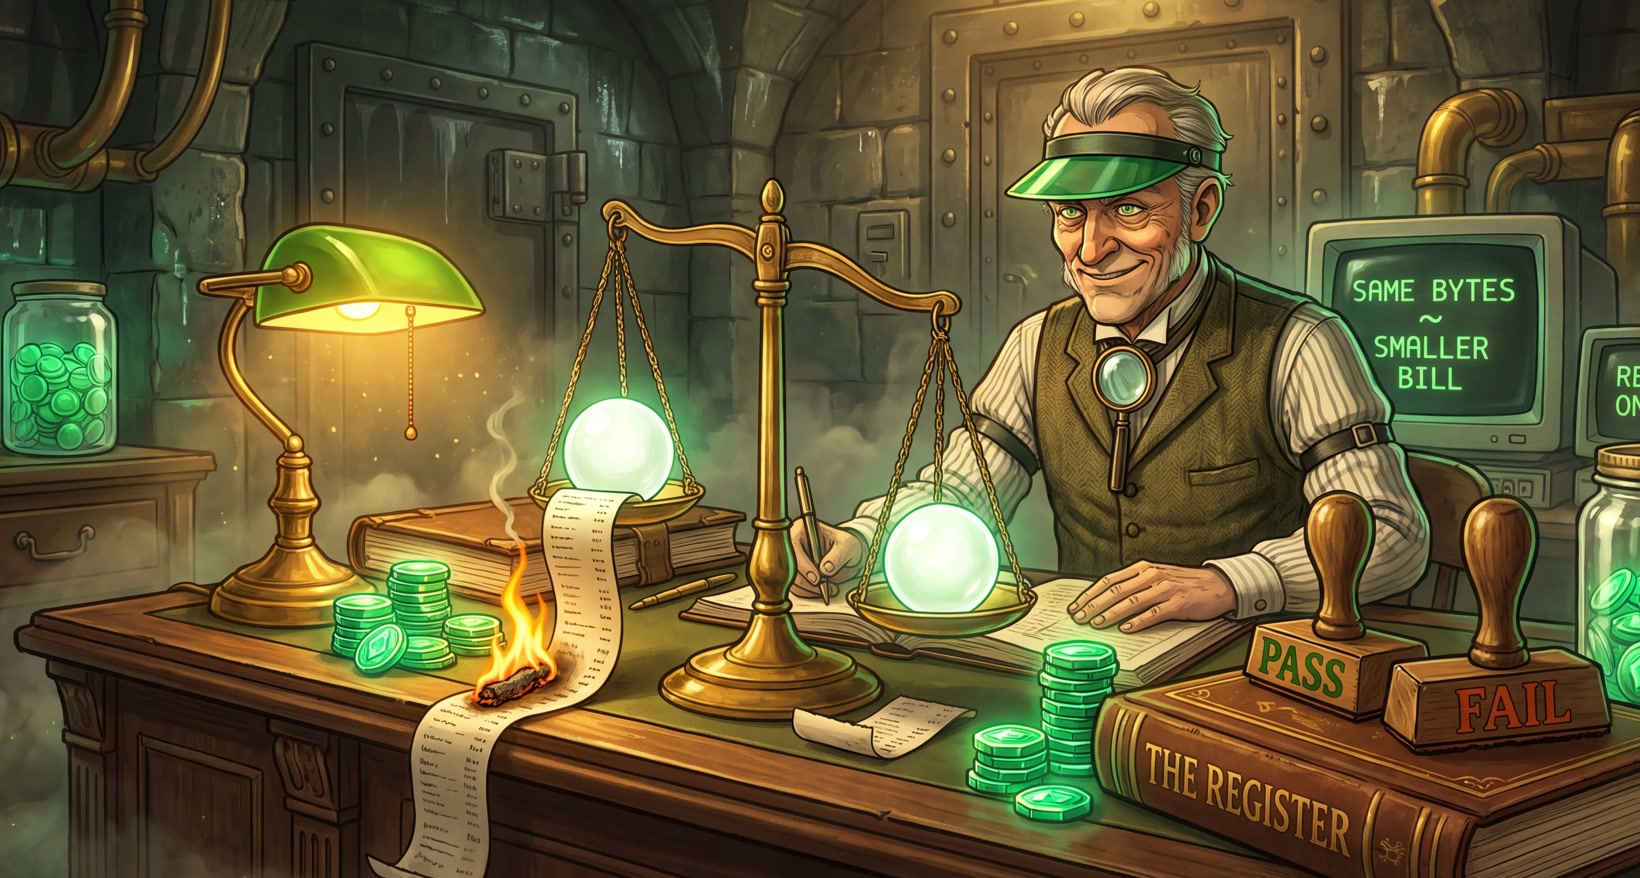
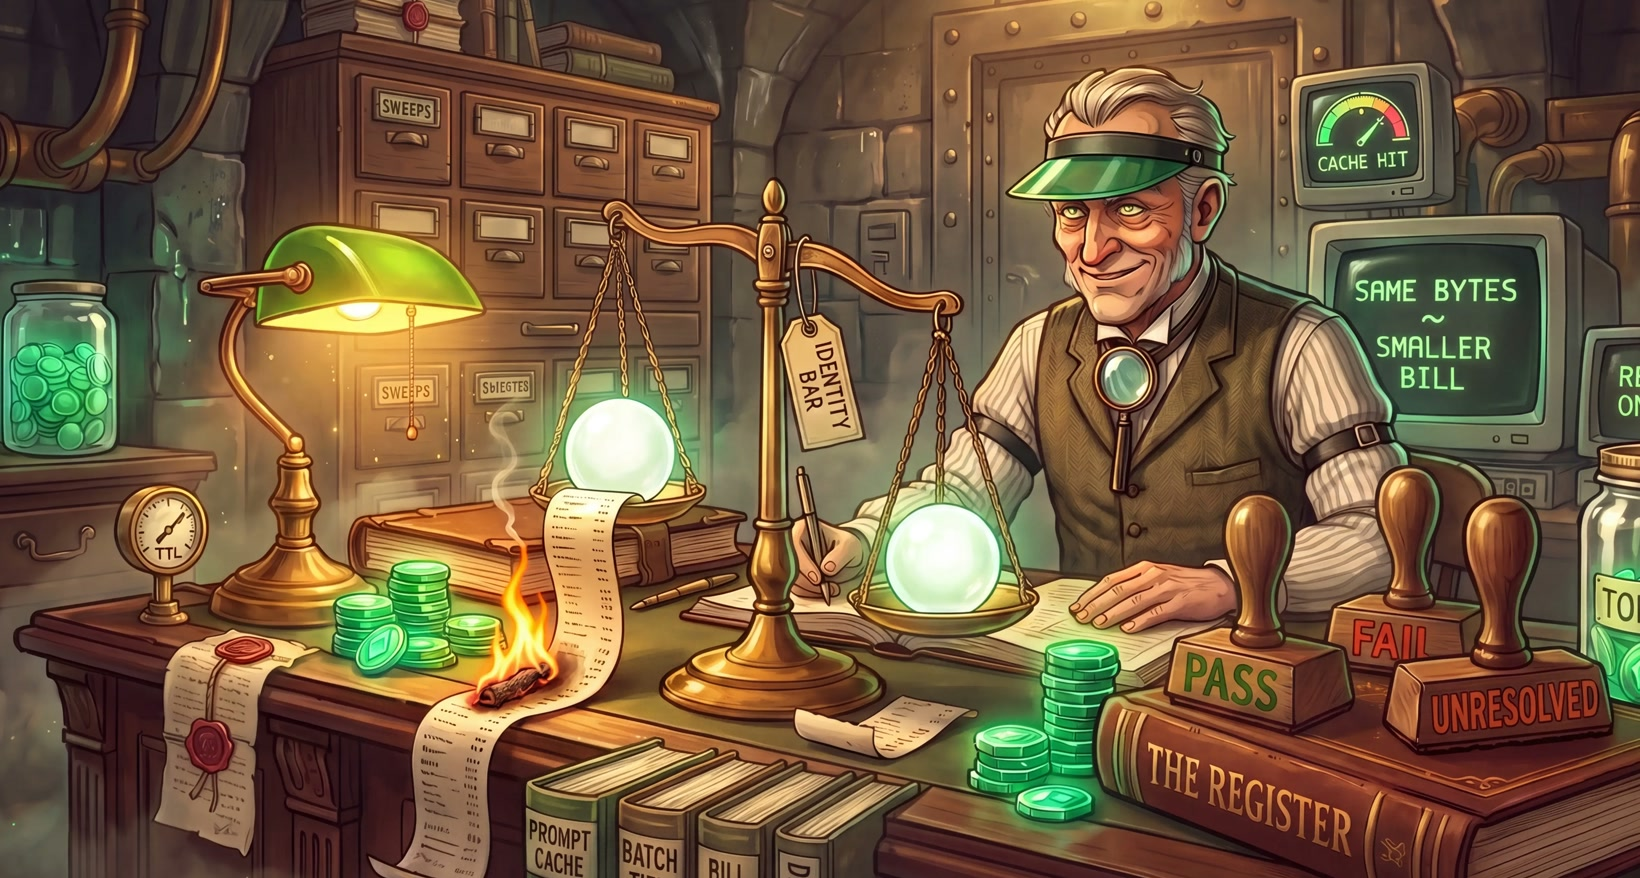
readme: the Auditor learns the whole product, and becomes canon
The integrated scene: every surface of the project is now a prop on
his desk — the IDENTITY BAR tag on the scale, PASS, FAIL and
UNRESOLVED stamps, the SWEEPS card-catalog, four skill ledgers, a TTL
gauge, a CACHE HIT meter, the TOKENS jar. Built by an image-reference
chain off the first take so he stays himself; the fix pass restored
the missing FAIL stamp and cleaned a gibberish drawer. The clean first
take lands as docs/img/auditor-master.jpg — the reference every future
render of him must be built from. Word-labels only; numerals stay
computed.

Claude-Session: https://claude.ai/code/session_014stxj5L3C1vmDXeRz55kxN

diff --git a/README.md b/README.md
@@ -11,7 +11,7 @@
 
 <div align="center">
 
-<img src="docs/img/hero-illustration.jpg" alt="The Auditor: a green-visored adjudicator at a vault desk weighing two identical glowing requests on a brass scale while a paper bill burns down to a stub — PASS and FAIL stamps ready beside a ledger embossed THE REGISTER" width="820">
+<img src="docs/img/hero-illustration.jpg" alt="The Auditor: a green-visored adjudicator at a vault desk, weighing two identical glowing requests on a brass scale tagged IDENTITY BAR while a bill burns to a stub — PASS, FAIL and UNRESOLVED stamps by a ledger embossed THE REGISTER, a SWEEPS card-catalog behind him, skill ledgers PROMPT CACHE, BATCH TIER, BILL AUDIT and DEDUP on the desk, a TTL gauge, a CACHE HIT meter, and a jar of glowing TOKENS" width="820">
 
 <br>
 
